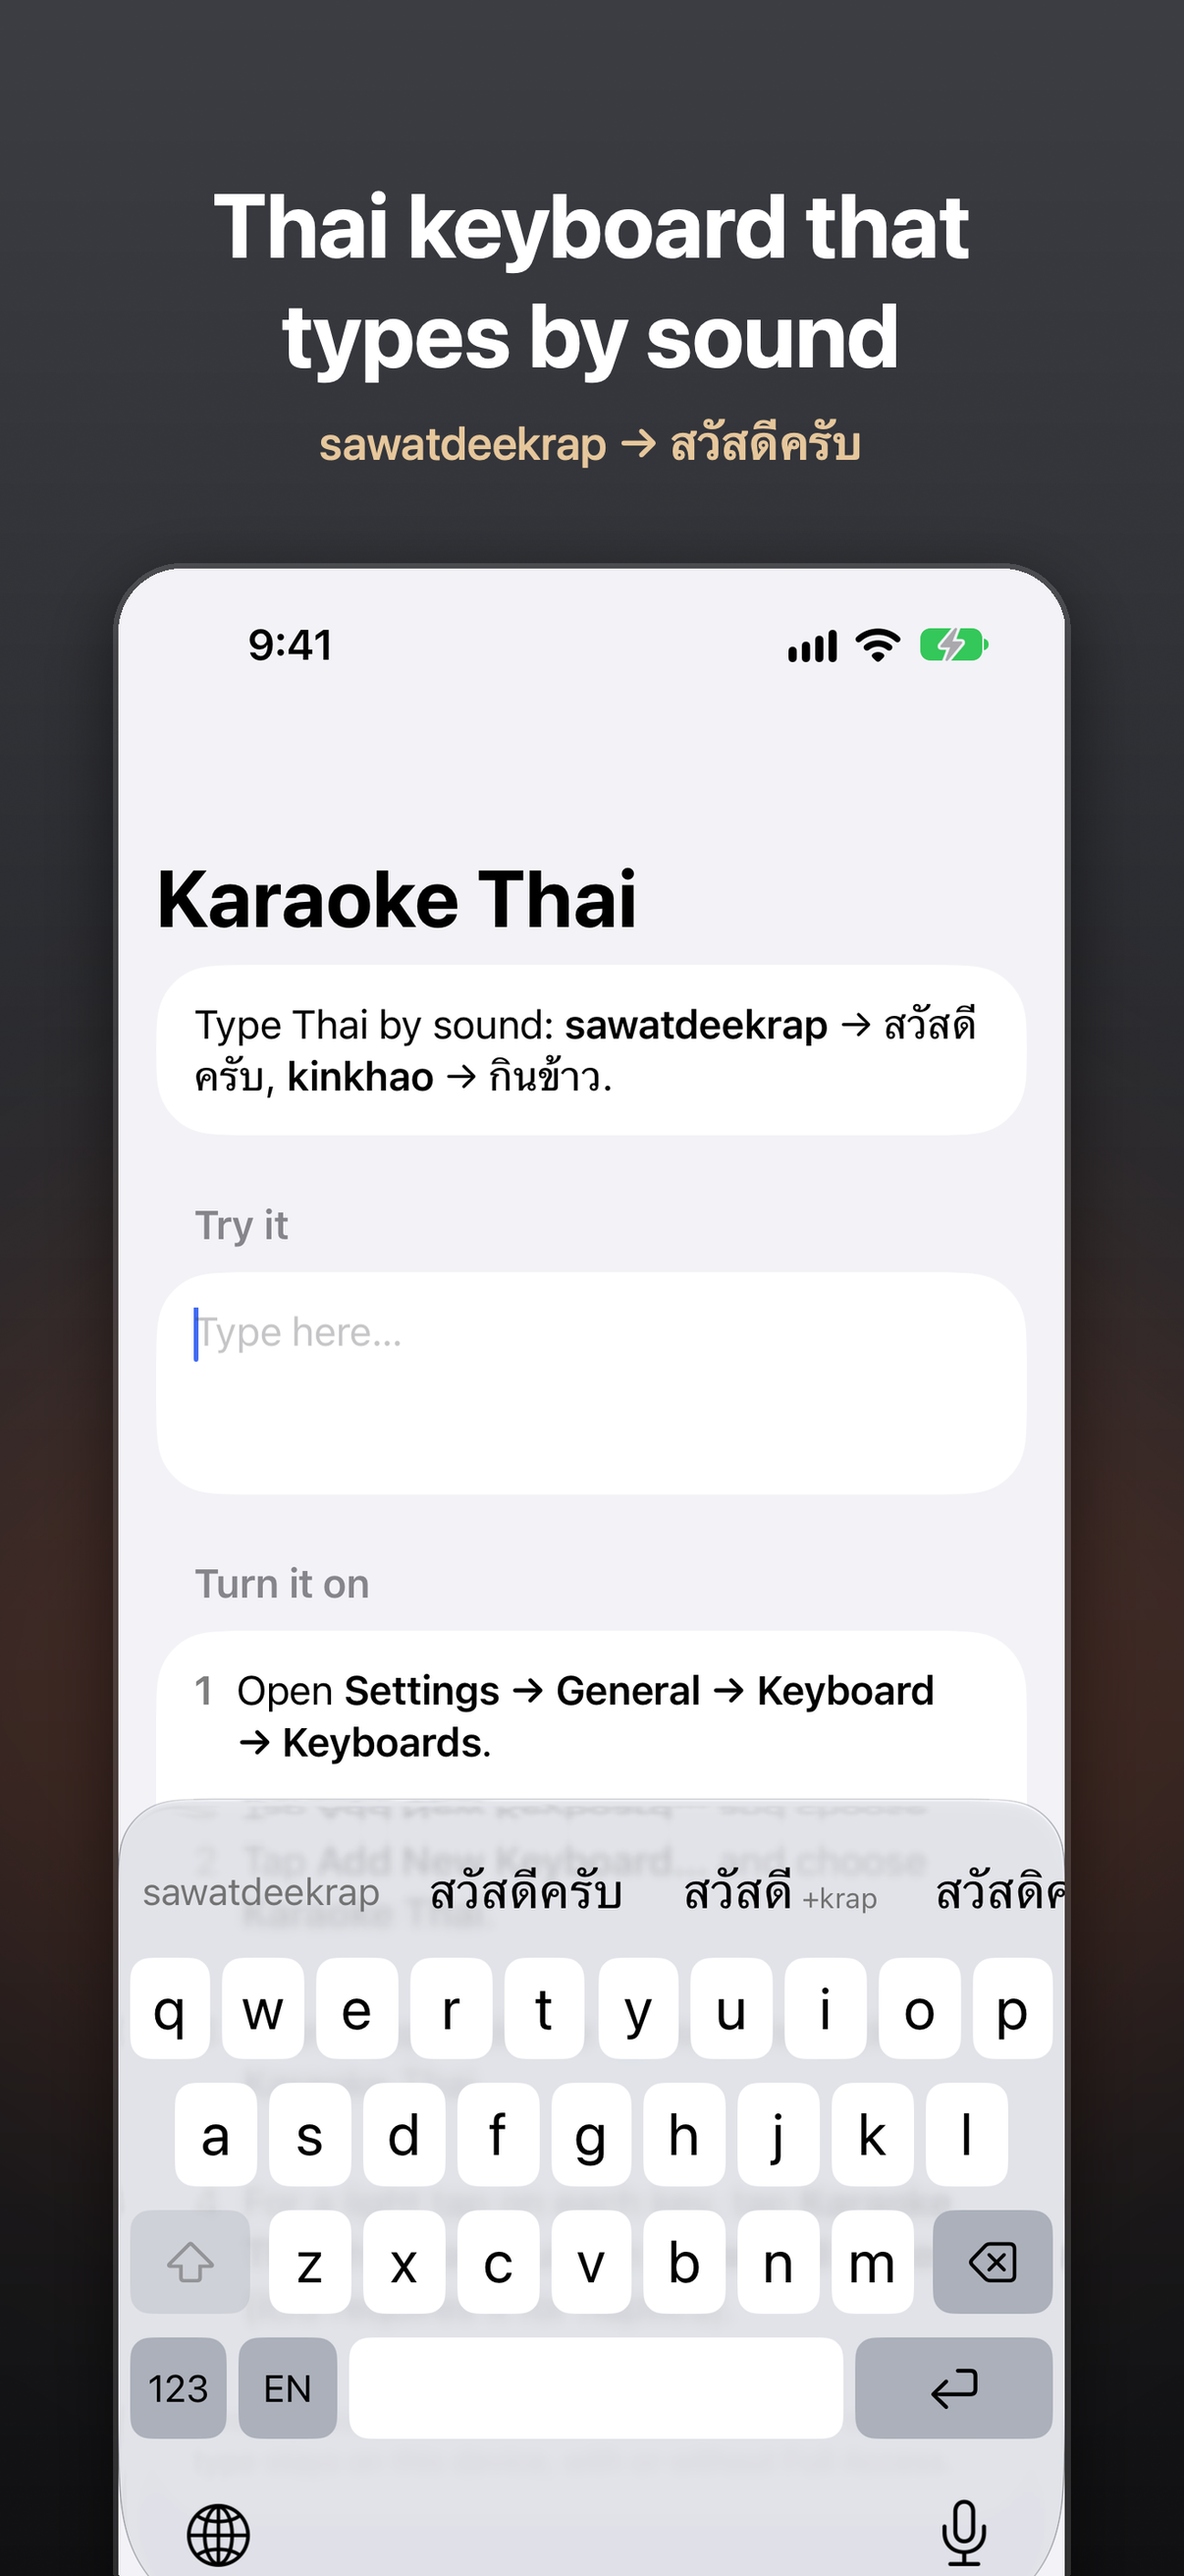
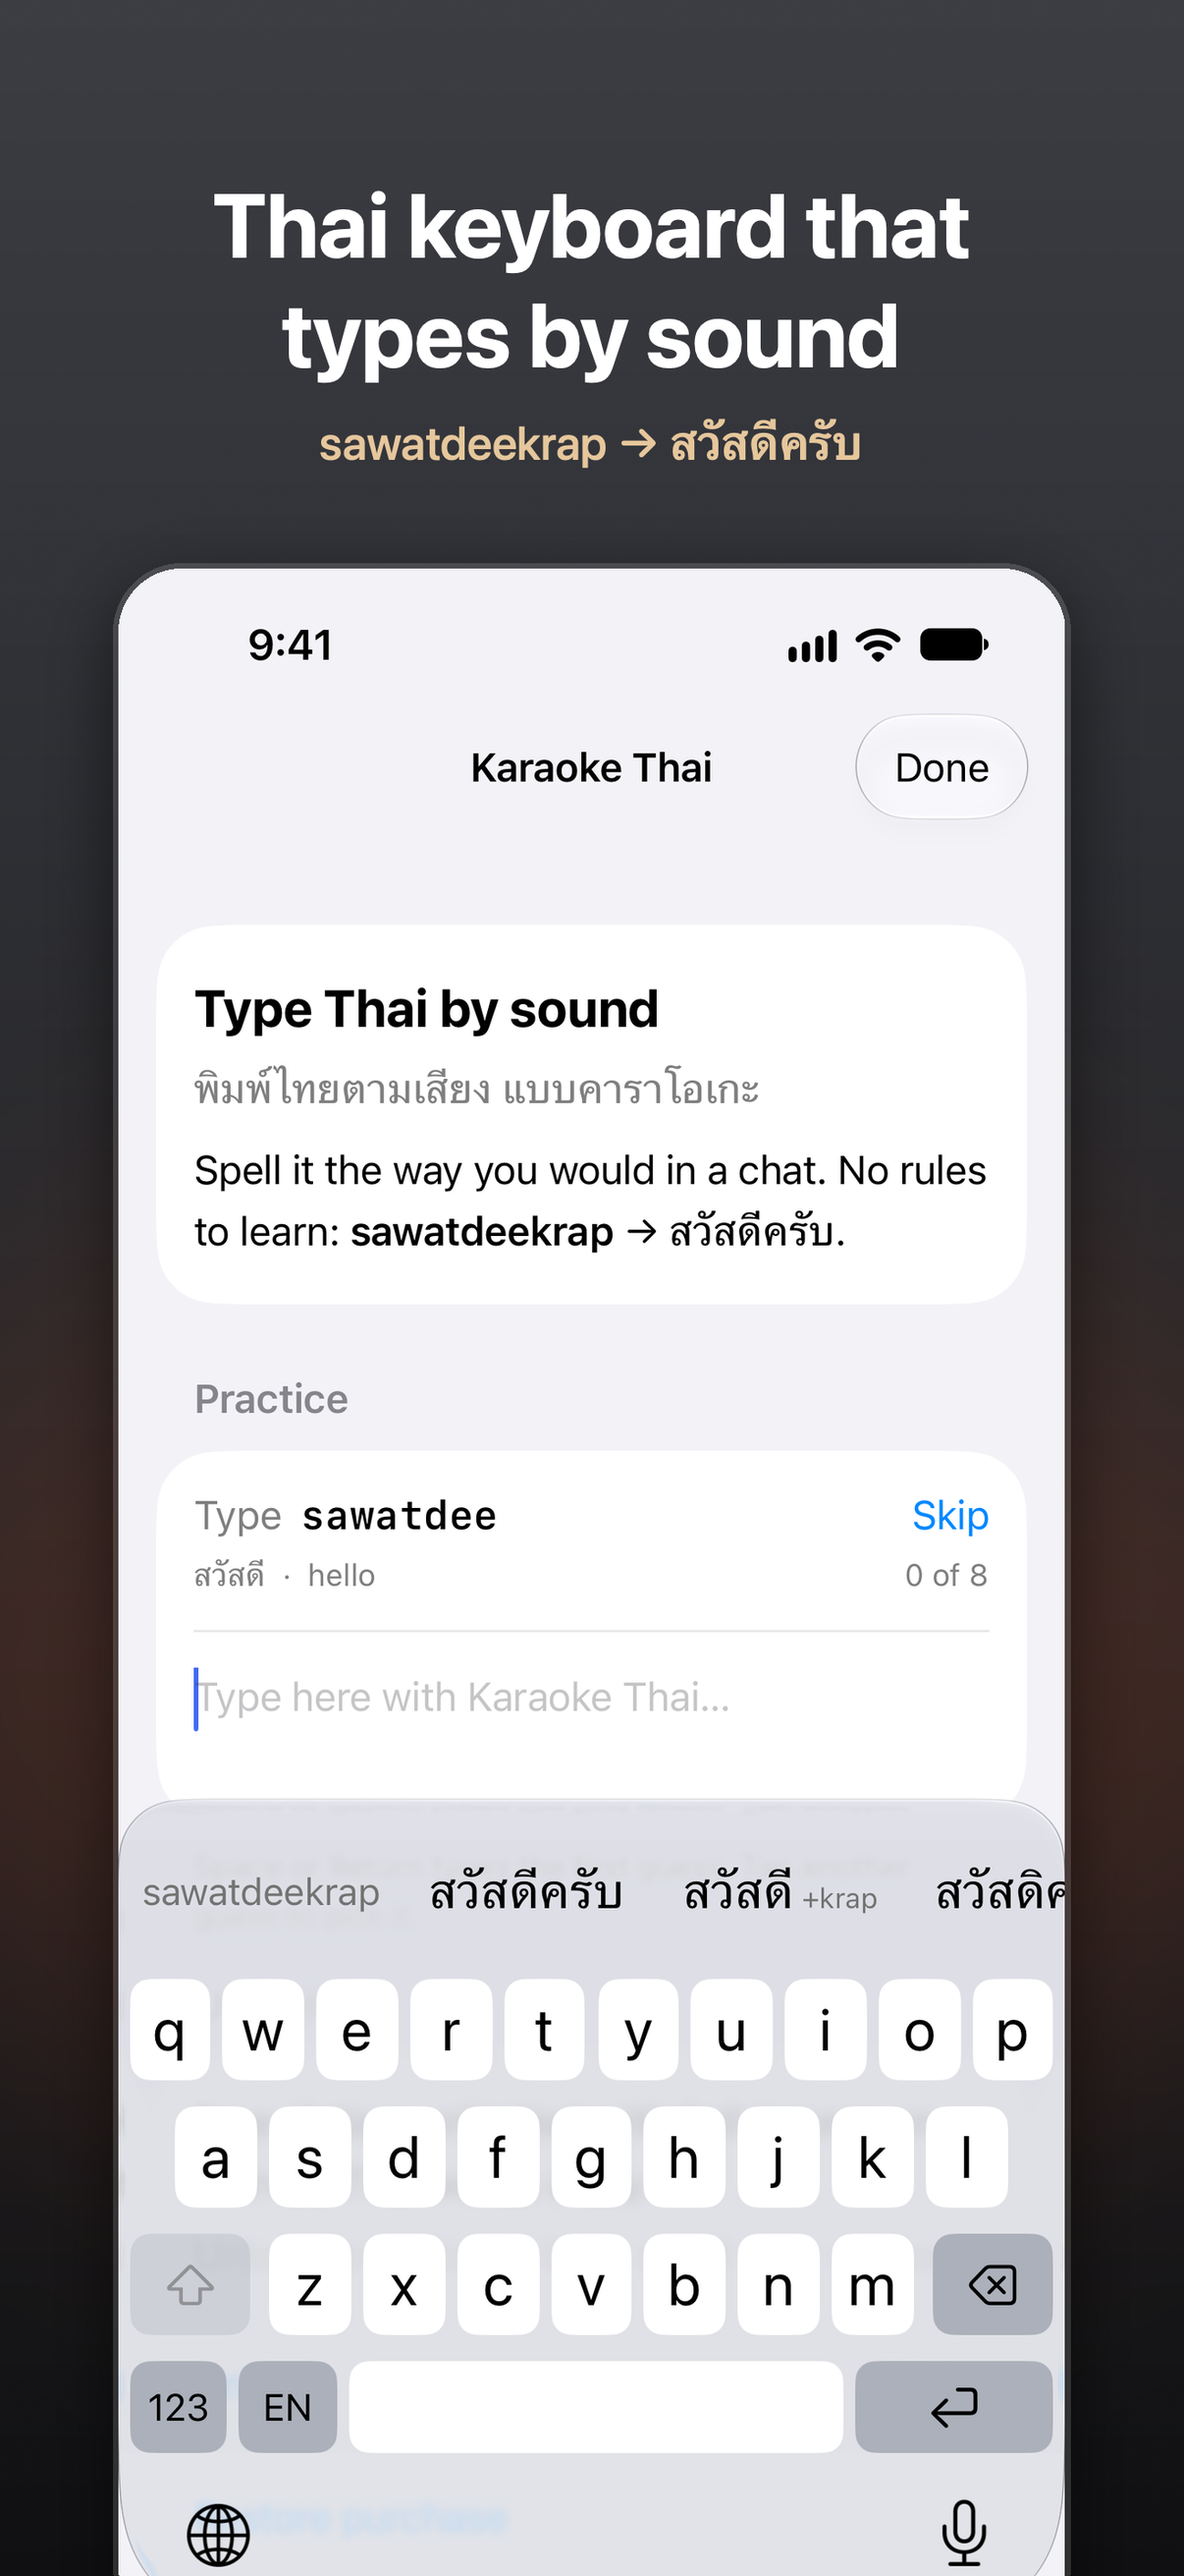
Store screenshots: retake with the current Practice screen
The phone and iPad screens inside the store screenshots still showed the old
"Try it" box. Retaken on the iPhone 17 Pro and iPad Pro 13" simulators:
sawatdeekrap with its guesses, then สวัสดีครับ typed and kinkhao's guesses.

DemoUITests can now type the screenshots too: DEMO_APP picks the app,
DEMO_LEAVE_LAST keeps the last guesses showing, DEMO_NO_GAP skips the space
between phrases (a second space after a conversion types ๆ), DEMO_SHOT saves
a screenshot, and DEMO_ROWS / DEMO_SPACE / DEMO_GLOBE give other key layouts.

diff --git a/ios/DemoUITests/DemoUITests.swift b/ios/DemoUITests/DemoUITests.swift
@@ -2,11 +2,18 @@ import XCTest
 
 /// Types the demo clip's phrases in Messages with the Karaoke Thai keyboard, at an even
 /// pace, while `simctl io recordVideo` records the screen. Not part of the app.
+/// Also types the App Store screenshots: DEMO_APP=com.kenpeeranat.KaraokeThai types in the
+/// app's practice box, and DEMO_LEAVE_LAST=1 leaves the last phrase unconverted so its
+/// guesses show in the bar. DEMO_SHOT=/path.png saves a screenshot at the end (the app is
+/// closed when the test ends). Other devices: DEMO_ROWS="y|keys|x,x,...;..." and
+/// DEMO_SPACE="x,y" give the key positions, DEMO_GLOBE="x,y" is tapped first to switch keyboard.
 ///
 /// Before running: the simulator is booted with Karaoke Thai as its current keyboard.
 /// Key positions are for iPhone 17 Pro (402 x 874 points), Karaoke Thai's letter layout.
 final class DemoUITests: XCTestCase {
-    private static let rows: [(y: CGFloat, keys: String, x: [CGFloat])] = [
+    private var rows: [(y: CGFloat, keys: String, x: [CGFloat])] = DemoUITests.phoneRows
+    private var space = DemoUITests.space
+    private static let phoneRows: [(y: CGFloat, keys: String, x: [CGFloat])] = [
         (620, "qwertyuiop", [21, 61, 101, 141, 180, 221, 260, 300, 340, 380]),
         (673, "asdfghjkl", [41, 81, 121, 161, 201, 240, 280, 320, 360]),
         (728, "zxcvbnm", [81, 121, 161, 201, 240, 280, 320]),
@@ -24,7 +31,7 @@ final class DemoUITests: XCTestCase {
 
     private func type(_ word: String) {
         for ch in word {
-            guard let row = Self.rows.first(where: { $0.keys.contains(ch) }),
+            guard let row = rows.first(where: { $0.keys.contains(ch) }),
                   let i = row.keys.firstIndex(of: ch) else { XCTFail("no key \(ch)"); return }
             tap(CGPoint(x: row.x[row.keys.distance(from: row.keys.startIndex, to: i)], y: row.y), "key \(ch)")
         }
@@ -33,24 +40,44 @@ final class DemoUITests: XCTestCase {
     private func pause(_ s: Double) { Thread.sleep(forTimeInterval: s) }
 
     func testDemo() throws {
-        let phrases = (ProcessInfo.processInfo.environment["DEMO_PHRASES"] ?? "sawatdeekrap kinkhaoyang")
-            .split(separator: " ").map(String.init)
-        let sms = XCUIApplication(bundleIdentifier: "com.apple.MobileSMS")
+        let env = ProcessInfo.processInfo.environment
+        let phrases = (env["DEMO_PHRASES"] ?? "sawatdeekrap kinkhaoyang")
+            .split(separator: " ").map(String.init).filter { $0 != "-" }
+        let leaveLast = env["DEMO_LEAVE_LAST"] == "1"
+        let sms = XCUIApplication(bundleIdentifier: env["DEMO_APP"] ?? "com.apple.MobileSMS")
         sms.activate()
         screen = sms.coordinate(withNormalizedOffset: .zero)
         pause(1)
+        let point = { (s: String) -> CGPoint in
+            let v = s.split(separator: ",").compactMap { Double($0) }
+            return CGPoint(x: v[0], y: v[1])
+        }
+        if let r = env["DEMO_ROWS"] {
+            rows = r.split(separator: ";").map { row in
+                let f = row.split(separator: "|").map(String.init)
+                return (CGFloat(Double(f[0])!), f[1], f[2].split(separator: ",").map { CGFloat(Double($0)!) })
+            }
+        }
+        if let s = env["DEMO_SPACE"] { space = point(s) }
+        if let g = env["DEMO_GLOBE"] { tap(point(g), "globe"); pause(1.5) }
         if ProcessInfo.processInfo.environment["DEMO_CLEAR"] == "1" { // empty the message box first
             for _ in 0..<40 { tap(Self.delete, "delete") }
             return
         }
         pause(1)
         for (n, phrase) in phrases.enumerated() {
-            if n > 0 { tap(Self.space, "space"); pause(0.6) } // a space between phrases
+            // A space between phrases (DEMO_NO_GAP=1 leaves it out: a second space right after
+            // a conversion types ๆ, as a double space types a full stop in English).
+            if n > 0 && env["DEMO_NO_GAP"] != "1" { tap(space, "space"); pause(0.6) }
             type(phrase)
             pause(1.4) // let the guess sit in the bar
-            tap(Self.space, "convert") // types the first Thai guess
+            if leaveLast && n == phrases.count - 1 { break }
+            tap(space, "convert") // types the first Thai guess
             pause(1.6)
         }
         pause(1.5)
+        if let path = env["DEMO_SHOT"] {
+            try XCUIScreen.main.screenshot().pngRepresentation.write(to: URL(fileURLWithPath: path))
+        }
     }
 }
